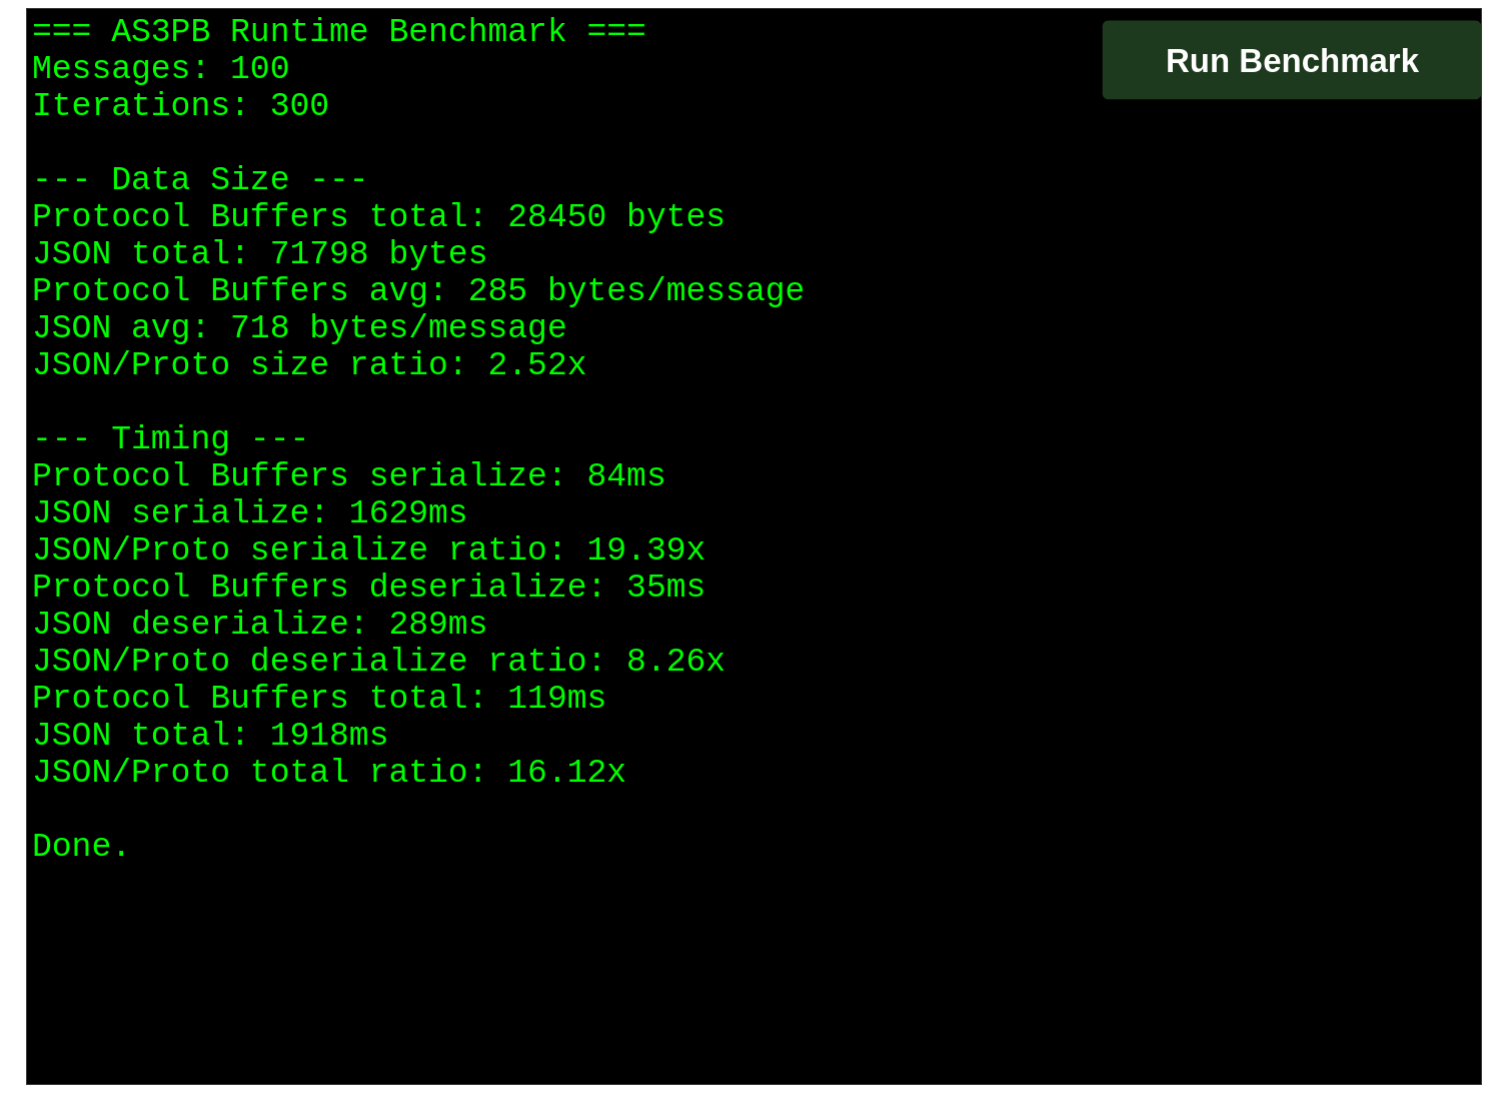
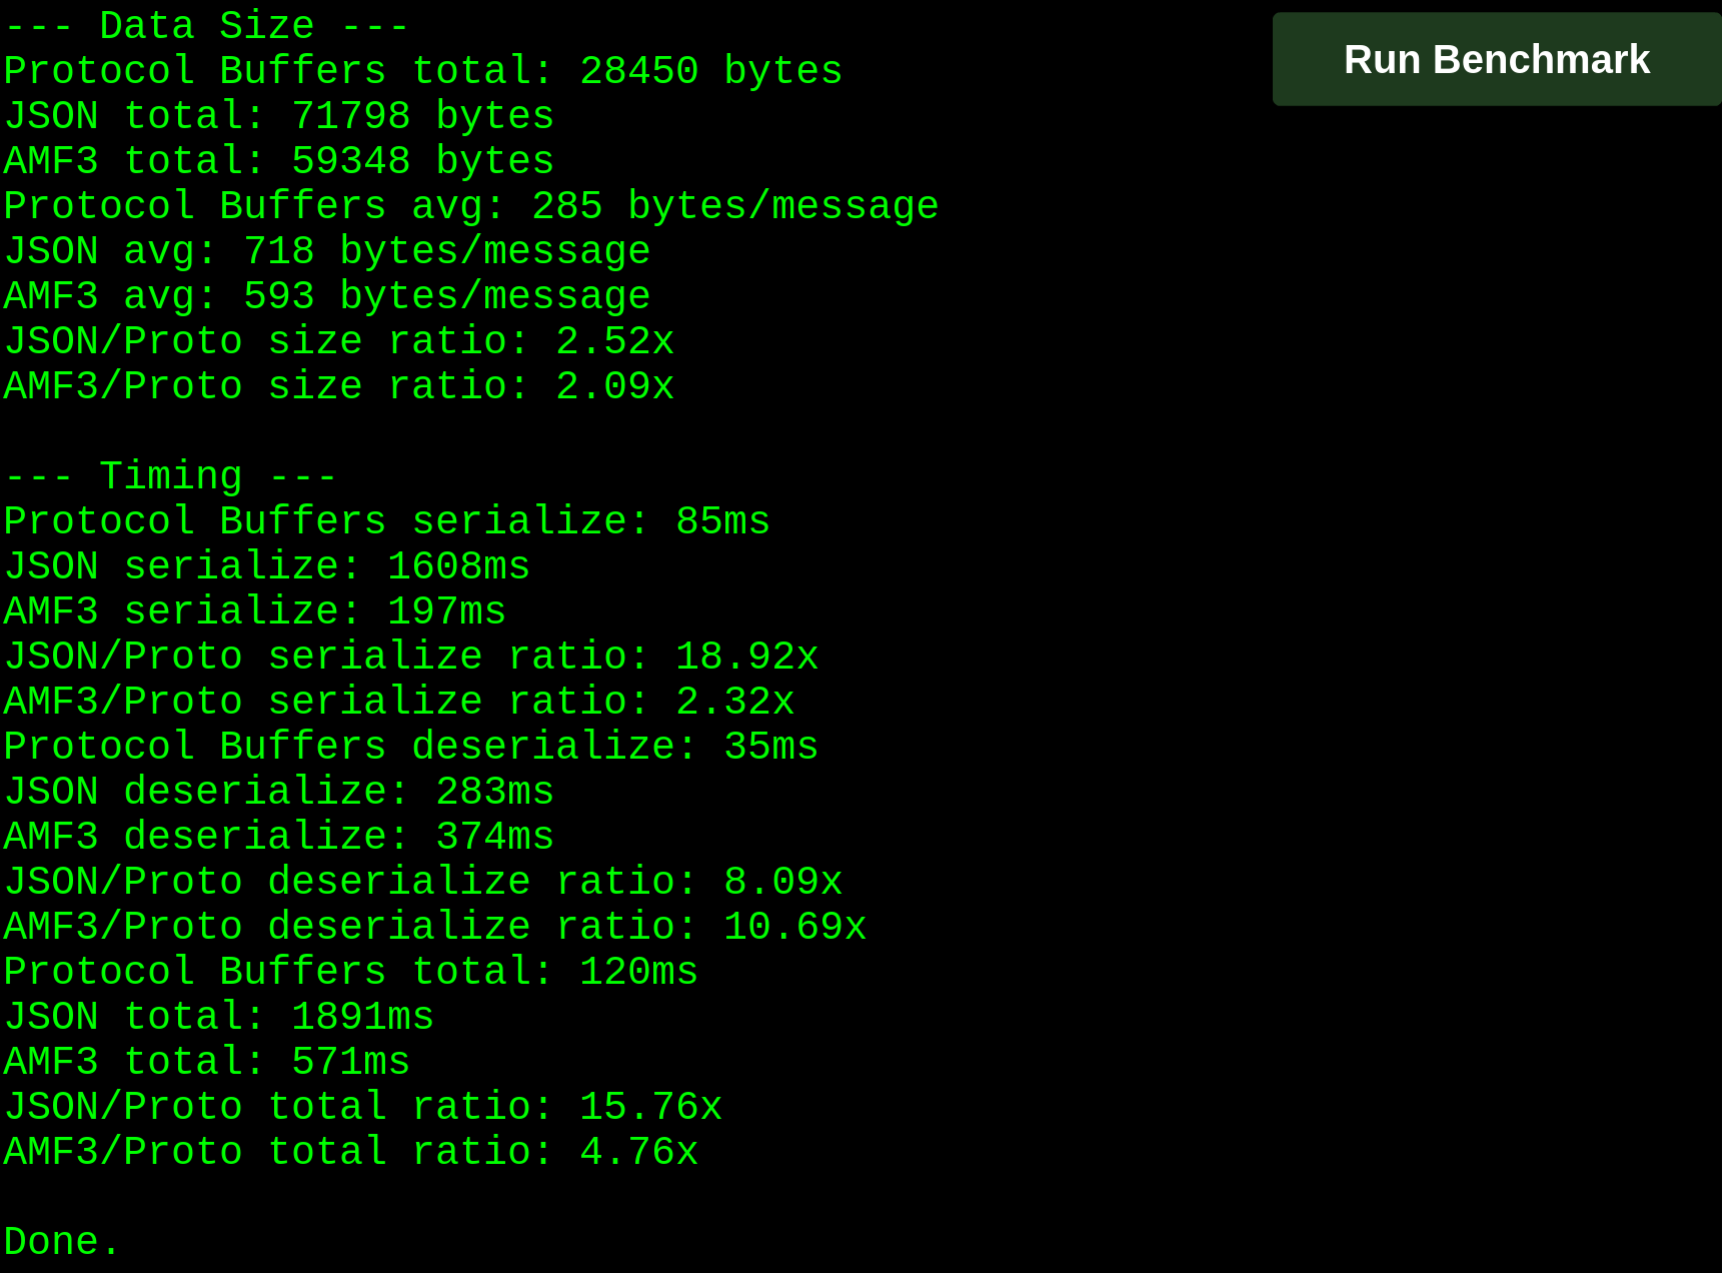
Add AMF3 benchmark comparison

Changed region(s): [[0.0, 0.0, 1.0, 1.0], [0.3382, 0.8399, 0.4305, 0.9332]]

diff --git a/README.md b/README.md
@@ -1,6 +1,6 @@
 # AS3PB
 
-AS3PB is a Protocol Buffers code generator and runtime for ActionScript 3.
+AS3PB is a Protocol Buffers code generator and runtime for ActionScript 3, designed for compact wire payloads and low-allocation game/runtime use.
 
 The repository contains:
 
@@ -96,19 +96,27 @@ Iterations: 300
 
 Protocol Buffers avg: 285 bytes/message
 JSON avg: 718 bytes/message
+AMF3 avg: 593 bytes/message
 JSON/Proto size ratio: 2.52x
+AMF3/Proto size ratio: 2.09x
 
-Protocol Buffers serialize: 84ms
-JSON serialize: 1629ms
-JSON/Proto serialize ratio: 19.39x
+Protocol Buffers serialize: 85ms
+JSON serialize: 1608ms
+AMF3 serialize: 197ms
+JSON/Proto serialize ratio: 18.92x
+AMF3/Proto serialize ratio: 2.32x
 
 Protocol Buffers deserialize: 35ms
-JSON deserialize: 289ms
-JSON/Proto deserialize ratio: 8.26x
+JSON deserialize: 283ms
+AMF3 deserialize: 374ms
+JSON/Proto deserialize ratio: 8.09x
+AMF3/Proto deserialize ratio: 10.69x
 
-Protocol Buffers total: 119ms
-JSON total: 1918ms
-JSON/Proto total ratio: 16.12x
+Protocol Buffers total: 120ms
+JSON total: 1891ms
+AMF3 total: 571ms
+JSON/Proto total ratio: 15.76x
+AMF3/Proto total ratio: 4.76x
 ```
 
 Build the RPC sample SWF:
